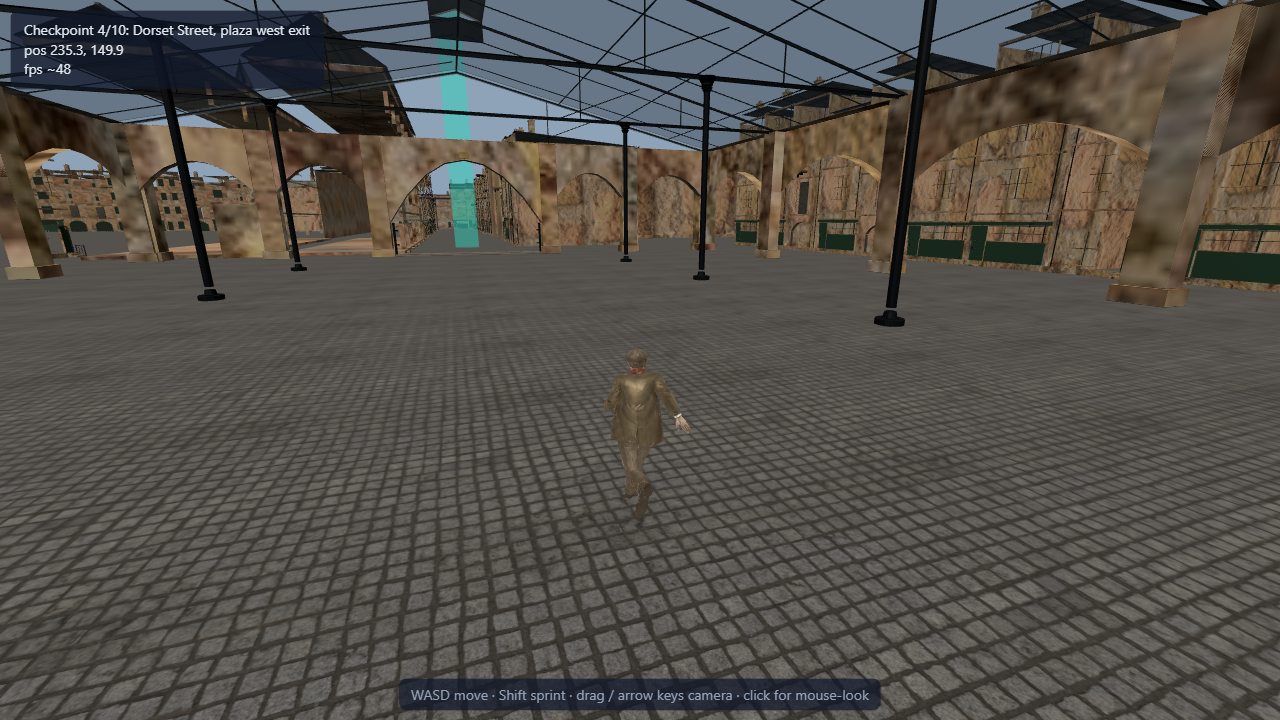
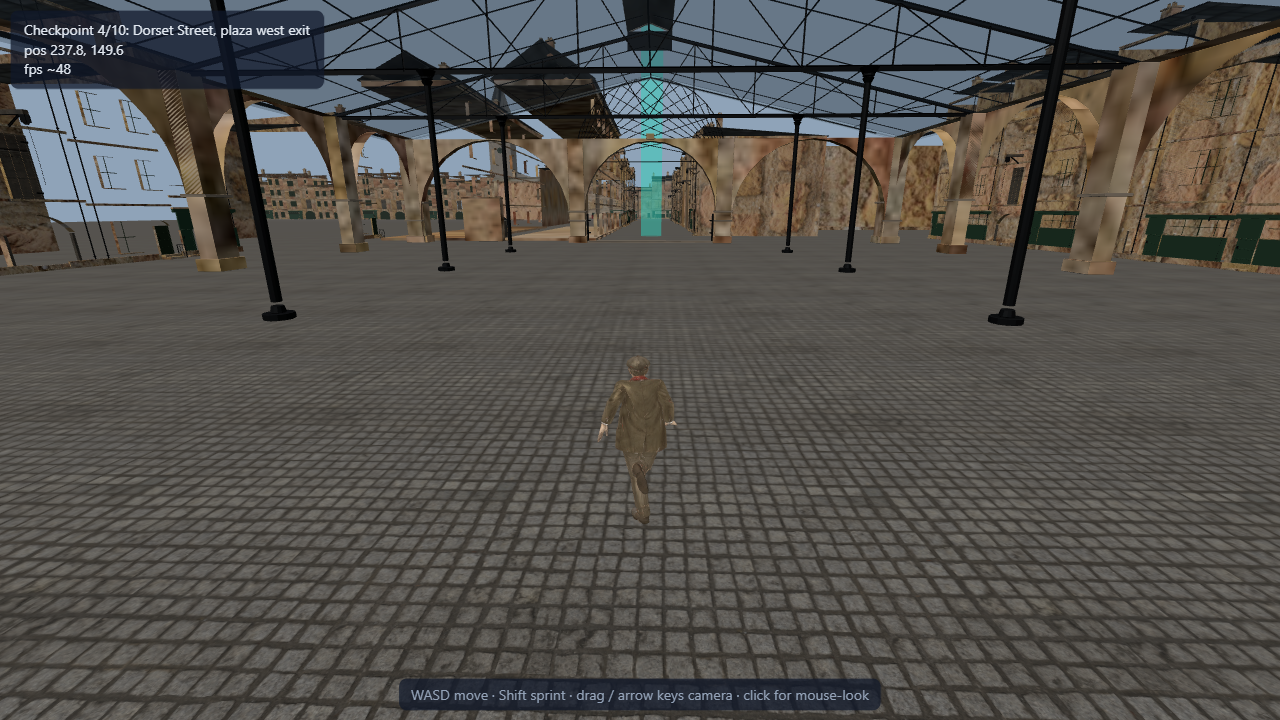
Stage 3 lookdev: world-scale texel density (sqrt-area repeat vs smart_project 0-1 packing), sooty near-opaque glazing, Portland stone + London stock tints, camera wall-clip fix; look.mjs waypoint tour + inspect.mjs GLB prober

diff --git a/sandbox/assets.js b/sandbox/assets.js
@@ -11,9 +11,31 @@ const MAT_PBR = {
   brick: 'brown_brick_02', slate: 'roof_slates_02', cobble: 'cobblestone_03',
   planks: 'dark_wooden_planks', plaster: 'beige_wall_001', stone: 'beige_wall_001',
 };
+
+// Texel density. The builders UV with smart_project, which packs EVERY object's
+// islands into the 0-1 square — so one texture tile stretches across a whole
+// 20 m facade and brick reads metres-per-brick. UV area 1 therefore maps to the
+// object's entire surface area A, so repeat = sqrt(A) / metres-per-tile restores
+// real-world texel size. Density is uniform across an object (one pack for all
+// its islands), so ONE repeat per object is correct for all its materials.
+const triAreaOf = geom => {          // local-space surface area, cached on the geometry
+  if (geom.__area != null) return geom.__area;
+  const p = geom.attributes.position, idx = geom.index;
+  const n = idx ? idx.count : p.count, gi = i => (idx ? idx.getX(i) : i);
+  let a = 0;
+  for (let i = 0; i + 2 < n; i += 3) {
+    const i0 = gi(i), i1 = gi(i + 1), i2 = gi(i + 2);
+    const ax = p.getX(i1) - p.getX(i0), ay = p.getY(i1) - p.getY(i0), az = p.getZ(i1) - p.getZ(i0);
+    const bx = p.getX(i2) - p.getX(i0), by = p.getY(i2) - p.getY(i0), bz = p.getZ(i2) - p.getZ(i0);
+    a += 0.5 * Math.hypot(ay * bz - az * by, az * bx - ax * bz, ax * by - ay * bx);
+  }
+  return (geom.__area = a);
+};
 const MAT_FLAT = {   // color/rough/metal for non-textured names
   iron:        { color: 0x2a2c2e, roughness: 0.55, metalness: 0.85 },
-  glass:       { color: 0x9fb4c0, roughness: 0.08, metalness: 0.0, transparent: true, opacity: 0.35 },
+  // near-opaque sooty glazing: windows read as dark Victorian glass instead of
+  // see-through holes into hollow module interiors
+  glass:       { color: 0x1c232a, roughness: 0.12, metalness: 0.0, transparent: true, opacity: 0.88 },
   paint_dark:  { color: 0x25321f, roughness: 0.6 },
   paint_green: { color: 0x2e4a34, roughness: 0.55 },
   postbox_red: { color: 0x8a1c1c, roughness: 0.5 },
@@ -30,10 +52,15 @@ export async function upgradeWorld({ THREE, GLTFLoader, scene, L, kindMeshes }) 
   const shared = {};
   const loadTex = (p, srgb) => { const t = tl.load('assets/pbr/' + p);
     t.wrapS = t.wrapT = THREE.RepeatWrapping; if (srgb) t.colorSpace = THREE.SRGBColorSpace; return t; };
+  // tints multiply the map: stone lifts toward weathered Portland (Christ Church
+  // is Portland ashlar, not tan plaster); brick pulls toward sooty London stock
+  // hero.jpg palette: London stock brick is desaturated YELLOW-brown, not red
+  const MAT_TINT = { stone: 0xd6d2c8, brick: 0xb09c80 };
   for (const [name, slug] of Object.entries(MAT_PBR)) {
     const set = pbrManifest[slug]; if (!set) continue;
     shared[name] = new THREE.MeshStandardMaterial({
       name, map: set.maps.diff && loadTex(set.maps.diff, true),
+      color: MAT_TINT[name] ?? 0xffffff,
       normalMap: set.maps.normal && loadTex(set.maps.normal),
       roughnessMap: set.maps.rough && loadTex(set.maps.rough),
       aoMap: set.maps.ao && loadTex(set.maps.ao),
@@ -42,9 +69,36 @@ export async function upgradeWorld({ THREE, GLTFLoader, scene, L, kindMeshes }) 
   for (const [name, def] of Object.entries(MAT_FLAT))
     shared[name] = new THREE.MeshStandardMaterial({ name, ...def });
 
-  const bindMaterials = root => root.traverse(o => {
+  // metres covered by one texture tile, per bound material name
+  const MAT_TILE = {};
+  for (const [name, slug] of Object.entries(MAT_PBR))
+    MAT_TILE[name] = pbrManifest[slug]?.scale ?? 2;
+
+  // repeat-corrected variants, cached so instanced terraces share materials
+  const tiled = {};
+  const atRepeat = (name, r) => {
+    const base = shared[name];
+    if (!base?.map || !MAT_TILE[name]) return base;      // flat colours need no repeat
+    const key = `${name}|${r.toFixed(2)}`;
+    if (tiled[key]) return tiled[key];
+    const m = base.clone();
+    for (const k of ['map', 'normalMap', 'roughnessMap', 'aoMap']) {
+      if (!m[k]) continue;
+      m[k] = m[k].clone(); m[k].repeat.set(r, r); m[k].needsUpdate = true;
+    }
+    return (tiled[key] = m);
+  };
+
+  const bindMaterials = (root, scaleY = 1) => root.traverse(o => {
     if (!o.isMesh) return;
-    const swap = m => shared[m.name?.toLowerCase().replace(/\.\d+$/, '')] ?? m;
+    // ponytail: non-uniform scale.y folded in as a linear area factor, not exact
+    // per-triangle. Terraces stretch 11.25->14 m at most, so the error is <5%.
+    const area = triAreaOf(o.geometry) * scaleY;
+    const repeatFor = name => Math.max(1, Math.sqrt(area) / (MAT_TILE[name] ?? 2));
+    const swap = m => {
+      const name = m.name?.toLowerCase().replace(/\.\d+$/, '');
+      return shared[name] ? atRepeat(name, repeatFor(name)) : m;
+    };
     o.material = Array.isArray(o.material) ? o.material.map(swap) : swap(o.material);
     if (o.geometry.attributes.uv && !o.geometry.attributes.uv2)
       o.geometry.setAttribute('uv2', o.geometry.attributes.uv);   // aoMap needs uv2
@@ -61,7 +115,7 @@ export async function upgradeWorld({ THREE, GLTFLoader, scene, L, kindMeshes }) 
     const inst = glb.scene.clone(true);
     inst.position.set(x, 0, z); inst.rotation.y = rotY;
     if (scaleY !== 1) inst.scale.y = scaleY;
-    bindMaterials(inst); scene.add(inst); return inst;
+    bindMaterials(inst, scaleY); scene.add(inst); return inst;
   };
 
   // ---- landmark placements (origins per the builder briefs) ----

diff --git a/sandbox/verify/inspect.html b/sandbox/verify/inspect.html
@@ -1,0 +1,60 @@
+<!doctype html>
+<!-- GLB inspector: /verify/inspect.html?m=terrace1-4&a=back  (a: front|back|top|three4) -->
+<html><body style="margin:0">
+<script type="importmap">
+{"imports":{"three":"https://cdn.jsdelivr.net/npm/three@0.169.0/build/three.module.js",
+ "three/addons/":"https://cdn.jsdelivr.net/npm/three@0.169.0/examples/jsm/"}}
+</script>
+<script type="module">
+import * as THREE from 'three';
+import { GLTFLoader } from 'three/addons/loaders/GLTFLoader.js';
+const q = new URLSearchParams(location.search);
+const scene = new THREE.Scene();
+scene.background = new THREE.Color(0x808890);
+scene.add(new THREE.HemisphereLight(0xffffff, 0x667788, 1.2));
+const sun = new THREE.DirectionalLight(0xffffff, 1.6); sun.position.set(3, 6, 2); scene.add(sun);
+const cam = new THREE.PerspectiveCamera(50, 16/9, 0.1, 500);
+const r = new THREE.WebGLRenderer({ antialias: true });
+r.setSize(1280, 720); document.body.appendChild(r.domElement);
+new GLTFLoader().load(`../assets/models/${q.get('m') ?? 'terrace1-4'}.glb`, g => {
+  const root = g.scene;
+  root.traverse(o => { if (o.isMesh) {   // clay: geometry only, no material tricks
+    o.userData.mats = (Array.isArray(o.material) ? o.material : [o.material]).map(m => m.name);
+    o.material = new THREE.MeshStandardMaterial({ color: 0xb8b2a8, roughness: 0.9 }); } });
+  scene.add(root);
+  const bb = new THREE.Box3().setFromObject(root), c = bb.getCenter(new THREE.Vector3()),
+        s = bb.getSize(new THREE.Vector3()), d = Math.max(s.x, s.y, s.z) * 1.4;
+  const A = {
+    front:  [c.x, c.y, bb.min.z - d],
+    back:   [c.x, c.y, bb.max.z + d],
+    top:    [c.x + 0.01, bb.max.y + d, c.z],
+    three4: [bb.max.x + d * 0.7, c.y + d * 0.5, bb.min.z - d * 0.7],
+  }[q.get('a') ?? 'three4'];
+  cam.position.set(...A); cam.lookAt(c);
+  r.render(scene, cam);
+  // geometry facts for the driver: per-mesh uv presence, area, material names
+  window.__info = [];
+  root.traverse(o => { if (!o.isMesh) return;
+    const p = o.geometry.attributes.position, idx = o.geometry.index;
+    const n = idx ? idx.count : p.count, gi = i => (idx ? idx.getX(i) : i);
+    let area = 0;
+    for (let i = 0; i + 2 < n; i += 3) {
+      const i0 = gi(i), i1 = gi(i + 1), i2 = gi(i + 2);
+      const ax = p.getX(i1) - p.getX(i0), ay = p.getY(i1) - p.getY(i0), az = p.getZ(i1) - p.getZ(i0);
+      const bx = p.getX(i2) - p.getX(i0), by = p.getY(i2) - p.getY(i0), bz = p.getZ(i2) - p.getZ(i0);
+      area += 0.5 * Math.hypot(ay * bz - az * by, az * bx - ax * bz, ax * by - ay * bx);
+    }
+    const uv = o.geometry.attributes.uv;
+    let uvMin = [1e9, 1e9], uvMax = [-1e9, -1e9];
+    if (uv) for (let i = 0; i < uv.count; i++) {
+      uvMin = [Math.min(uvMin[0], uv.getX(i)), Math.min(uvMin[1], uv.getY(i))];
+      uvMax = [Math.max(uvMax[0], uv.getX(i)), Math.max(uvMax[1], uv.getY(i))];
+    }
+    const mats = o.userData.mats;
+    window.__info.push({ name: o.name, tris: n / 3, area: +area.toFixed(1),
+      hasUV: !!uv, uvMin, uvMax, mats,
+      groups: o.geometry.groups?.length ?? 0 });
+  });
+  window.__shot = true;
+});
+</script></body></html>

diff --git a/sandbox/index.html b/sandbox/index.html
@@ -449,7 +449,9 @@ function tick(now){
         oy=Math.max(0.4, ty-Math.sin(P.pitch)*cd)-ty,
         oz=Math.cos(P.yaw)*Math.cos(P.pitch)*cd;
   const t = occludeT(tx,ty,tz, ox,oy,oz);
-  const k = Math.max(0.12, t*0.95);           // stop just in front of the wall
+  // stop just in front of the wall; the wall margin must beat the comfort floor,
+  // or a player backed against a wall puts the camera THROUGH it (seen in-game)
+  const k = Math.max(0.03, Math.min(t*0.95, t-0.02));
   gameplayCamera.position.set(tx+ox*k, ty+oy*k, tz+oz*k);
   gameplayCamera.lookAt(tx,ty,tz);
   const cam = (FAULT==='cam') ? debugCamera : gameplayCamera;   // 'cam' fault: stolen view
